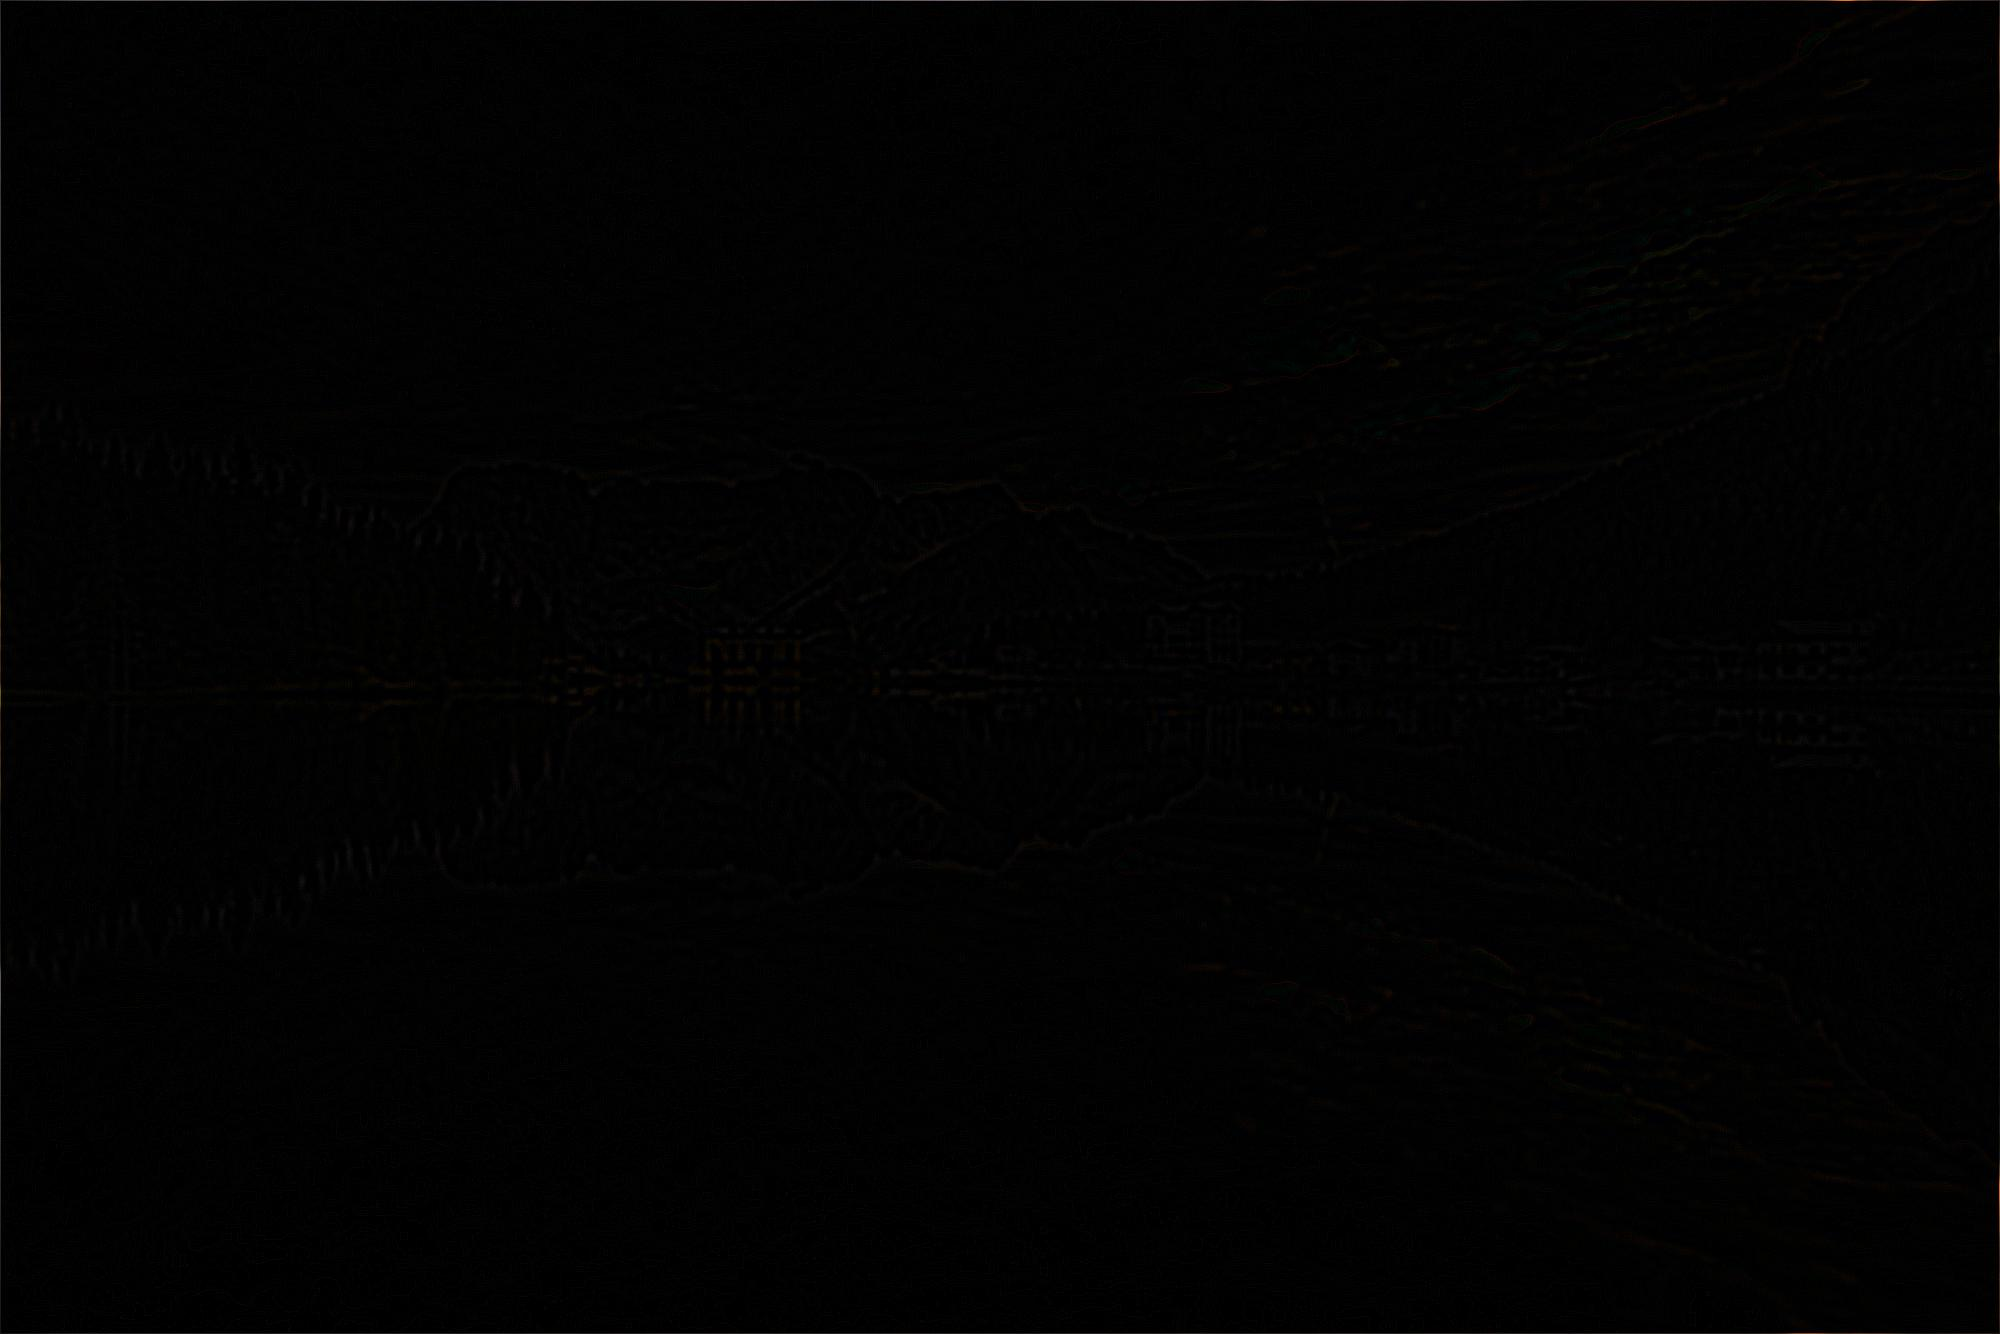
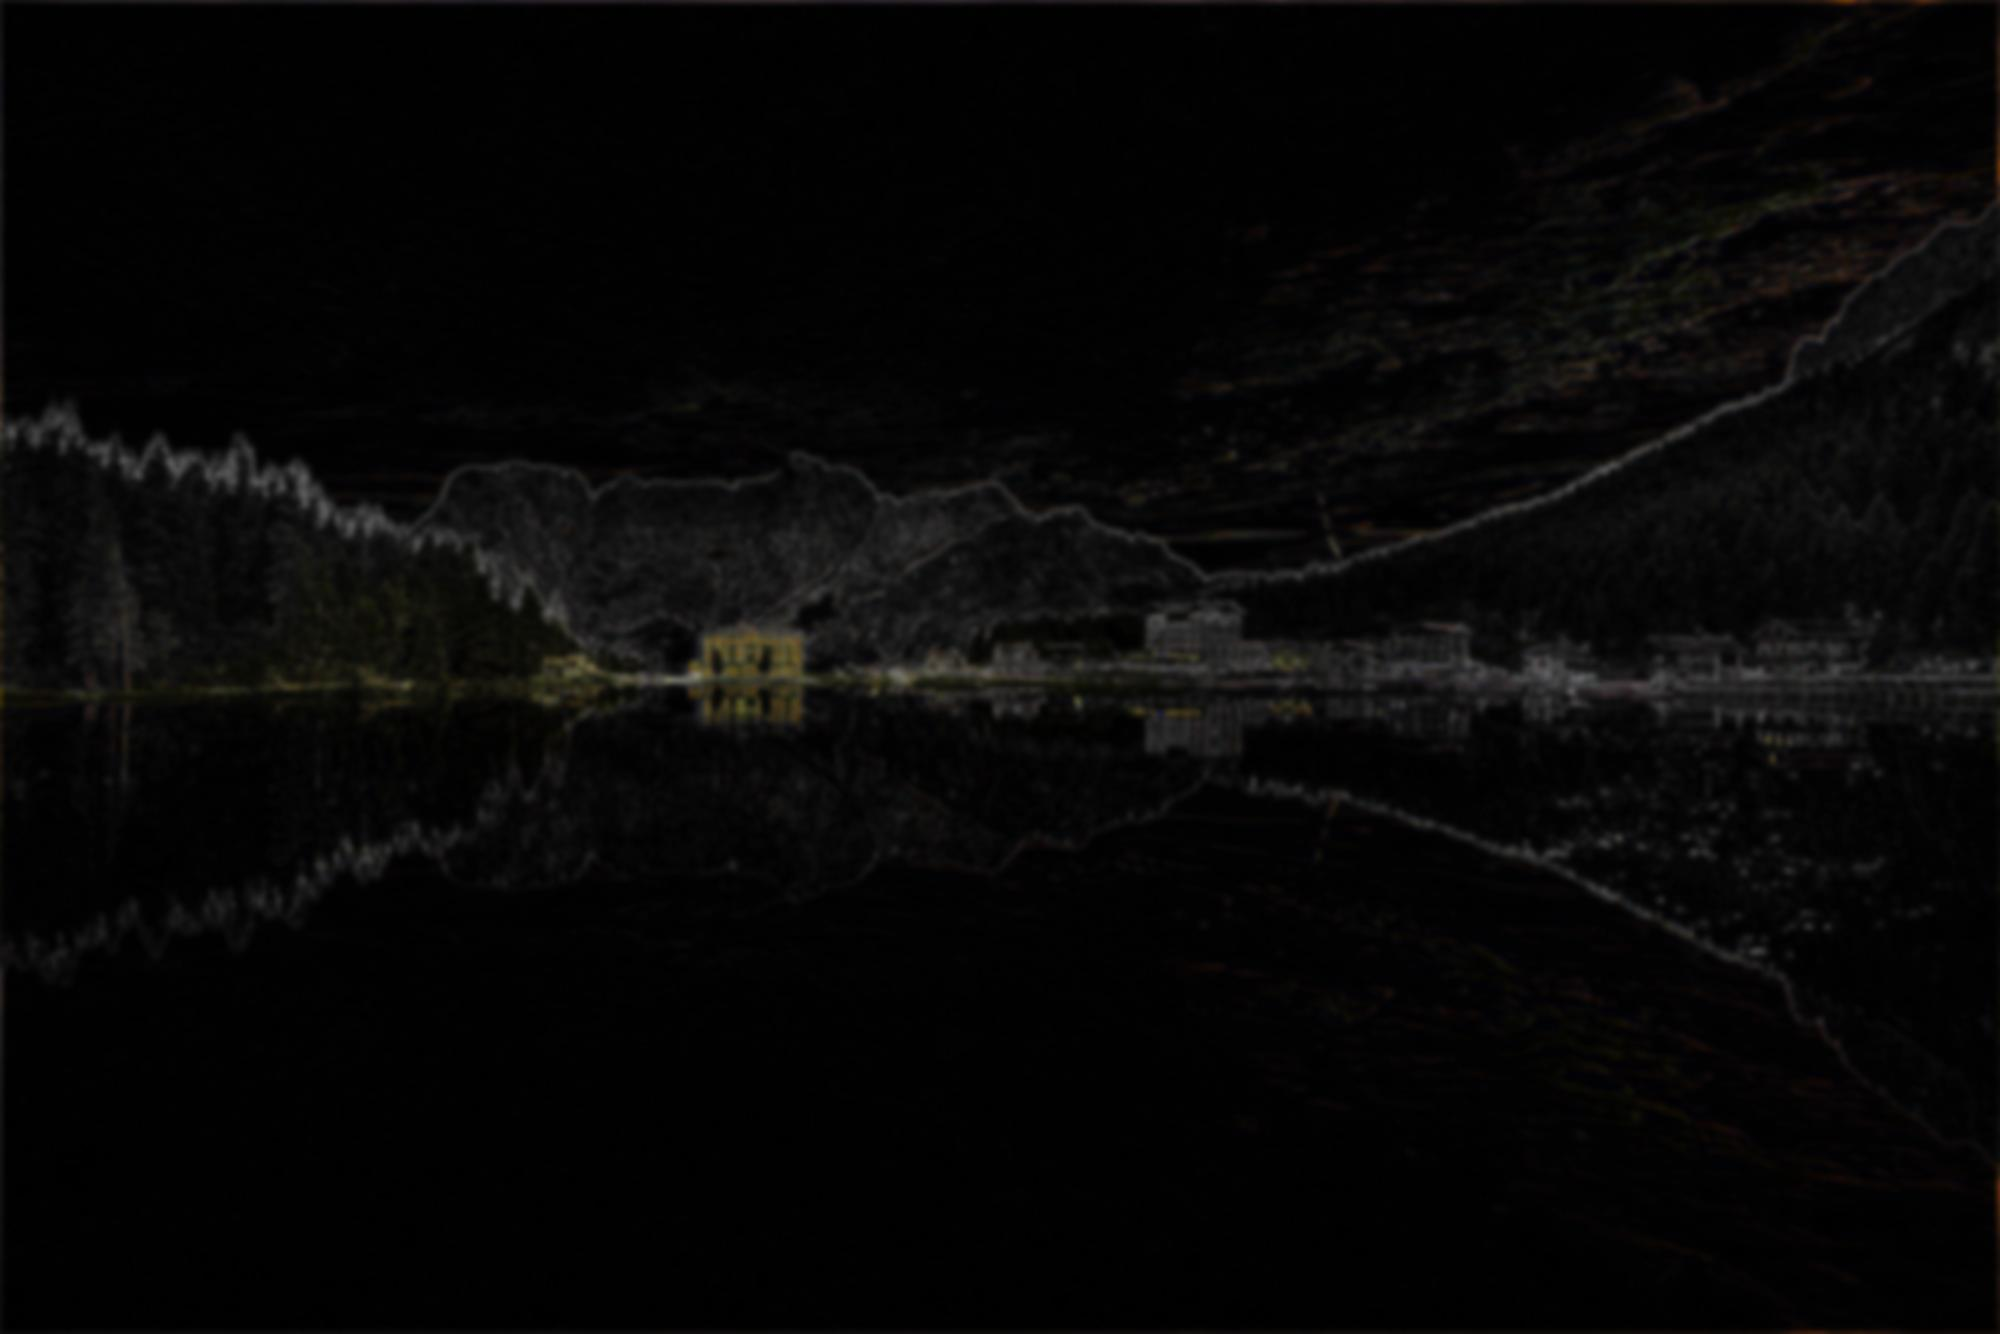
Change filter order

diff --git a/Projects/WIP/session2_pipelines/demos/demo_pipeline.py b/Projects/WIP/session2_pipelines/demos/demo_pipeline.py
@@ -49,9 +49,9 @@ def main():
     print("   3. Edges")
     
     pipeline1 = FilterPipeline([
+        EdgesFilter(),
         BlurFilter(radius=3),
-        BrightnessFilter(factor=1.3),
-        EdgesFilter()
+        BrightnessFilter(factor=1.3)
     ])
     
     print(f"\n✅ Pipeline creado: {pipeline1}")
